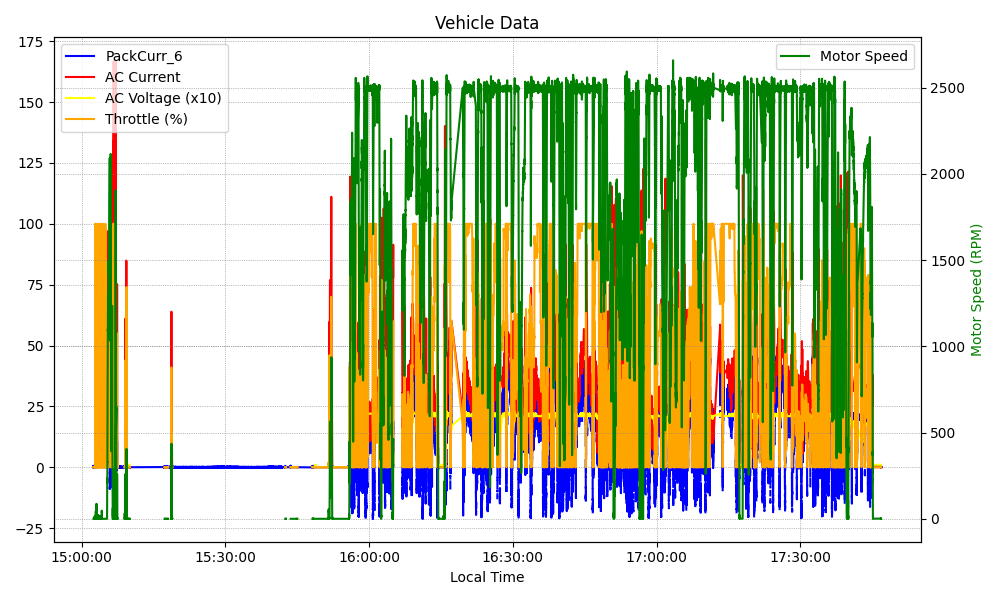
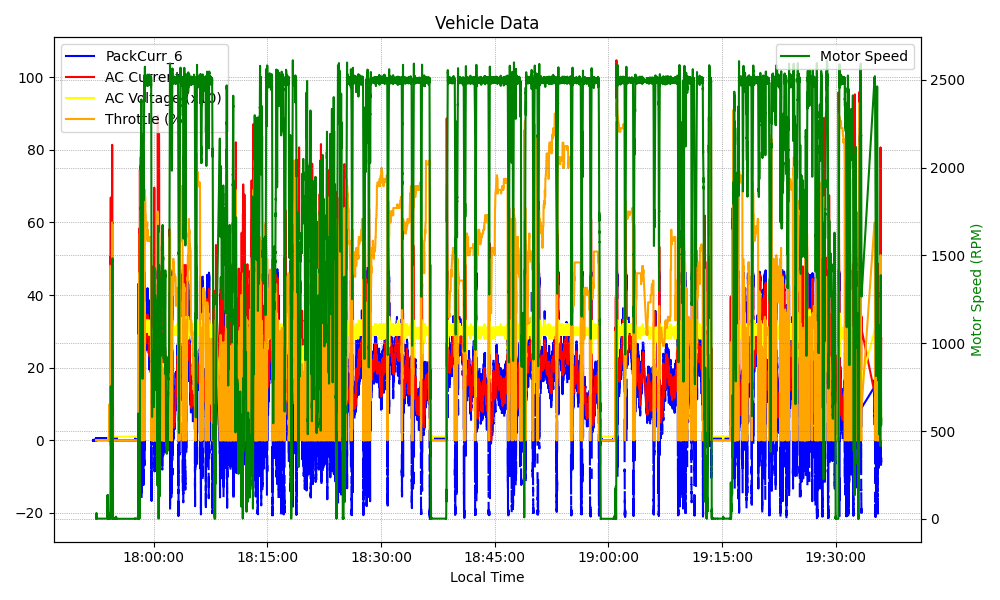
Changed the file name from Log_file to 'log_withoutanamoly', Added code for iterating through all the day's folders, added path for storing the graph.png

diff --git a/DayWiseAnalysis.py b/DayWiseAnalysis.py
@@ -63,14 +63,17 @@ def adjust_current(row):
     else:
         return row['PackCurr_6']
    
-def plot_ghps(data):
+def plot_ghps(data,Path):
+
+
     if 'localtime' not in data.columns:
         # Convert the 'timestamp' column from Unix milliseconds to datetime
         data['localtime'] = pd.to_datetime(data['timestamp'], unit='ms')
 
         # Adjusting the timestamp to IST (Indian Standard Time) by adding 5 hours and 30 minutes
         data['localtime'] = data['localtime'] + pd.Timedelta(hours=5, minutes=30)
-
+ 
+    # data['localtime'] = pd.to_datetime(data['localtime'], format='%d/%m/%Y %H:%M:%S.%f', dayfirst=True)
     data['localtime'] = pd.to_datetime(data['localtime'])
     data.set_index('localtime', inplace=True)
     data['PackCurr_6'] = data.apply(adjust_current, axis=1)
@@ -107,7 +110,7 @@ def plot_ghps(data):
     ax2.legend(loc='upper right')
  
     # Add a title to the plot
-    plt.title('Vehicle Data')
+    plt.title('Battery Pack, Motor Data, and Throttle')
  
     # Format x-axis ticks as hours:minutes:seconds
     ax1.xaxis.set_major_formatter(mdates.DateFormatter('%H:%M:%S'))
@@ -121,11 +124,20 @@ def plot_ghps(data):
  
     # Save the plot as an image or display it
     plt.tight_layout()  # Adjust layout to prevent clipping of labels
-    plt.savefig('graph.png')  # Save the plot as an image
-    plt.show()
+    # plt.savefig('graph.png')  # Save the plot as an image
+
+    os.makedirs(Path, exist_ok=True)
+    plt.savefig(os.path.join(Path, 'graph.png'))  # Save the plot as an image in the specified directory
+    # plt.show()
  
  
+###################################
+
+ 
+# def analysis_Energy(log_file, km_file):
 def analysis_Energy(log_file):
+ 
+    print("Entered analysis energy")
     dayfirst=True
     data = pd.read_csv(log_file)
 
@@ -144,7 +156,7 @@ def analysis_Energy(log_file):
    
     if (data['SOC_8'] > 90).any():
         # Maximum cell temperature calculation
-        temp_columns_max = [f'Temp{i}_10' for i in range(1, 9)]     #temp_columns_max will be a list containing the strings 'Temp1_10', 'Temp2_10', ..., 'Temp8_10'.
+        temp_columns_max = [f'Temp{i}_10' for i in range(1, 9)]
         max_values = data[temp_columns_max].max(axis=1)     # Find the maximum value out of 8 columns (from Temp1_10 to Temp8_10)
         max_cell_temp = max_values.max()                  # Find the maximum among those maximum values
         print("\nOverall maximum value of cell temperature among those maximum values:", max_cell_temp)
@@ -189,6 +201,8 @@ def analysis_Energy(log_file):
     # Drop rows with missing values in 'SOCAh_8' column
     data.dropna(subset=['SOCAh_8'], inplace=True)
  
+    # Convert the 'localtime' column to datetime s
+    # data['localtime'] = pd.to_datetime(data['localtime'], format='%d/%m/%Y %H:%M:%S.%f',dayfirst=True)
     data['localtime'] = pd.to_datetime(data['localtime'])
  
     # Calculate the start time and end time
@@ -228,30 +242,72 @@ def analysis_Energy(log_file):
     watt_h = abs((data_resampled['PackCurr_6'] * data_resampled['PackVol_6'] * data_resampled['Time_Diff']).sum()) / 3600  # Convert seconds to hours
     print("Actual Watt-hours (Wh):{:.2f}" .format(watt_h))
  
-    #starting and ending ah
+    ###########   starting and ending ah
     starting_soc_Ah = data['SOCAh_8'].iloc[-1]
     ending_soc_Ah = data['SOCAh_8'].iloc[0]
  
     print("Starting SoC (Ah):{:.2f}".format (starting_soc_Ah))
     print("Ending SoC (Ah):{:.2f}".format  (ending_soc_Ah))
  
-    #Code for SOC_percentage(Starting and Ending SOC)
+    # #Added date and time
+    # starting_time= data['localtime'].iloc[-1]
+   
+    # Ending_time= data['localtime'].iloc[0]
+    # print(starting_time)
+    # print(Ending_time)
+
+
+ ####################
+ #the following code is providing wrong value for SOC_percentage, so skipped it.
+    # Calculate starting and ending SoC in percentage
+    # starting_soc_percentage = (starting_soc / actual_ah) * 100
+    # ending_soc_percentage = (ending_soc / actual_ah) * 100
+ 
+    # # Print the results
+    # print("Starting SoC (%): {:.2f}%".format(starting_soc_percentage))
+    # print("Ending SoC (%): {:.2f}%".format(ending_soc_percentage))
+ #####################
+ 
+ 
+ #Code for SOC_percentage(Starting and Ending SOC)
     starting_soc_percentage = data['SOC_8'].max()
     ending_soc_percentage = data['SOC_8'].min()
     print("Starting SOC:", starting_soc_percentage)
     print("Ending SOC:", ending_soc_percentage)
+ 
+ 
+    ##################### KM ---------------------
+    # Convert the 'localtime' column to datetime format
+    # data_KM['localtime'] = pd.to_datetime(data_KM['localtime'], format='%d/%m/%Y %H:%M:%S.%f', dayfirst=True)
+    # data['localtime'] = pd.to_datetime(data['localtime'])
    
     # Initialize total distance covered
     total_distance = 0
  
     # Iterate over rows to compute distance covered between consecutive points
-    for i in range(len(data) - 1):   
+    for i in range(len(data) - 1):
+        # print("length--------------->",len(data))
+        # print("i------------------->",i)
+        # print(data['latitude'])
+        # print(data['longitude'])
+        # Get latitude and longitude of consecutive points
+        # lat1, lon1 = data_KM.loc[i - 1, 'latitude'], data_KM.loc[i - 1, 'longitude']
+        # lat2, lon2 = data_KM.loc[i, 'latitude'], data_KM.loc[i, 'longitude']
+        # lat1, lon1 = data.loc[i - 1, 'latitude'], data.loc[i - 1, 'longitude']
+        # lat2, lon2 = data.loc[i, 'latitude'], data.loc[i, 'longitude']
+         # Get latitude and longitude of consecutive points
+        # lat1 = data.iloc[i, data.columns.get_loc('latitude')]
+        # lon1 = data.iloc[i, data.columns.get_loc('longitude')]
+        # lat2 = data.iloc[i + 1, data.columns.get_loc('latitude')]
+        # lon2 = data.iloc[i + 1, data.columns.get_loc('longitude')]
+   
         # Get latitude and longitude of consecutive points
         lat1 = data['latitude'].iloc[i]
         lon1 = data['longitude'].iloc[i]
         lat2 = data['latitude'].iloc[i + 1]
         lon2 = data['longitude'].iloc[i + 1]
        
+ 
         # Calculate distance between consecutive points
         distance = haversine(lat1, lon1, lat2, lon2)
  
@@ -261,7 +317,7 @@ def analysis_Energy(log_file):
  
     print("Total distance covered (in kilometers):{:.2f}".format(total_distance))
  
-    #Wh/Km
+    ##############   Wh/Km
     Wh_km = abs(watt_h / total_distance)
     print("WH/KM:{:.2f}". format (watt_h / total_distance))
  
@@ -271,8 +327,14 @@ def analysis_Energy(log_file):
  
     # Calculate total SOC consumed
     total_soc_consumed =  abs(final_soc - initial_soc)
+ 
     print ("Total SOC consumed:{:.2f}".format (total_soc_consumed),"%")
  
+ 
+    # Check if the mode remains constant or changes
+ 
+ 
+    #############################
     mode_values = data['Mode_Ack_408094978'].unique()
  
     if len(mode_values) == 1:
@@ -294,10 +356,10 @@ def analysis_Energy(log_file):
                 print(f"Sports mode: {percentage:.2f}%")
             elif mode == 1:
                 print(f"Eco mode: {percentage:.2f}%")
-    
+    ###############################
  
  
-  #Peak current
+  ##preak current##
     # Calculate power using PackCurr_6 and PackVol_6
     data_resampled['Power'] = data_resampled['PackCurr_6'] * data_resampled['PackVol_6']
  
@@ -318,10 +380,10 @@ def analysis_Energy(log_file):
  
  
     # Calculate energy regenerated (in watt-hours)
-    energy_regenerated = ((data_resampled[data_resampled['Power'] > 0]['Power']*data_resampled['Time_Diff']).sum()) / 3600  # Convert seconds to hours  
+    energy_regenerated = ((data_resampled[data_resampled['Power'] > 0]['Power']*data_resampled['Time_Diff']).sum()) / 3600  # Convert seconds to hours   ######################################################################
  
     # Calculate total energy consumed (in watt-hours)
-    total_energy_consumed =  ((data_resampled[data_resampled['Power'] < 0]['Power']*data_resampled['Time_Diff']).sum()) / 3600  # Convert seconds to hours   
+    total_energy_consumed =  ((data_resampled[data_resampled['Power'] < 0]['Power']*data_resampled['Time_Diff']).sum()) / 3600  # Convert seconds to hours   ######################################################################
  
     print("total",total_energy_consumed)
     print("total energy regenerated",energy_regenerated)
@@ -781,7 +843,7 @@ log_file = None
  
  
  
-main_folder_path = r"C:\Users\kamalesh.kb\CodeForAutomation\BB4\OUTPUT_1\done\Mar-29"
+main_folder_path = r"C:\Users\kamalesh.kb\CodeForAutomation\BB3\OUTPUT_1"
 
  
 def mergeExcel(main_folder_path):
@@ -854,52 +916,38 @@ def mergeExcel(main_folder_path):
 
  
  
-for subfolder in os.listdir(main_folder_path):
-    if subfolder.startswith("Battery"):  # Check if the subfolder starts with "Battery"
-        subfolder_path = os.path.join(main_folder_path, subfolder)
-        print(subfolder)
-        if os.path.isdir(subfolder_path):
-            log_file = None
-            # km_file = None
-            # Find 'log' and 'km' files
-            log_found = False
-            # km_found = False
-            for file in os.listdir(subfolder_path):
-                if file.startswith('log') and file.endswith('.csv'):
-                    log_file = os.path.join(subfolder_path, file)
-                    log_found = True
-                # elif file.startswith('km') and file.endswith('.csv'):
-                #     km_file = os.path.join(subfolder_path, file)
-                #     km_found = True
-                # if log_found and km_found:
-                if log_found:
-                    break
- 
-            # if log_found and km_found:
-            if log_found:
-                data = pd.read_csv(log_file)
-                # print("Read log files
-                # data_KM = pd.read_csv(km_file)
-                # print("Read log file------------------------>")
-                total_duration = 0
-                total_distance = 0
-                Wh_km = 0
-                SOC_consumed = 0
-                mode_values = 0
- 
-                # Plot graphs
-                plot_ghps(data)
-                # total_duration, total_distance, Wh_km, SOC_consumed, ppt_data = analysis_Energy(log_file, km_file)
-                # capture_analysis_output(log_file, km_file, subfolder_path)
-                total_duration, total_distance, Wh_km, SOC_consumed, ppt_data = analysis_Energy(log_file)
-                capture_analysis_output(log_file, subfolder_path,)
-                
- 
- 
- 
-            else:
-                print("Log file or KM file not found in subfolder:", subfolder)
- 
+for mar_subfolder in os.listdir(main_folder_path):
+    if mar_subfolder.startswith("Mar"):
+        mar_subfolder_path = os.path.join(main_folder_path, mar_subfolder)
+        print(mar_subfolder)
+        
+        # Iterate over subfolders starting with "Battery" within "Mar" subfolders
+        for subfolder in os.listdir(mar_subfolder_path):
+            if subfolder.startswith("Battery"):
+                subfolder_path = os.path.join(mar_subfolder_path, subfolder)
+                print(subfolder)
+                if os.path.isdir(subfolder_path):
+                    log_file = None
+                    log_found = False
+                    for file in os.listdir(subfolder_path):
+                        if file.startswith('log_withoutanamoly') and file.endswith('.csv'):
+                            log_file = os.path.join(subfolder_path, file)
+                            log_found = True
+                        if log_found:
+                            break
+                    if log_found:
+                        data = pd.read_csv(log_file)
+                        total_duration = 0
+                        total_distance = 0
+                        Wh_km = 0
+                        SOC_consumed = 0
+                        mode_values = 0
+
+                        plot_ghps(data,subfolder_path)
+                        total_duration, total_distance, Wh_km, SOC_consumed, ppt_data = analysis_Energy(log_file)
+                        capture_analysis_output(log_file, subfolder_path)
+                    else:
+                        print("Log file or KM file not found in subfolder:", subfolder)
  
 mergeExcel(main_folder_path) 
                 
